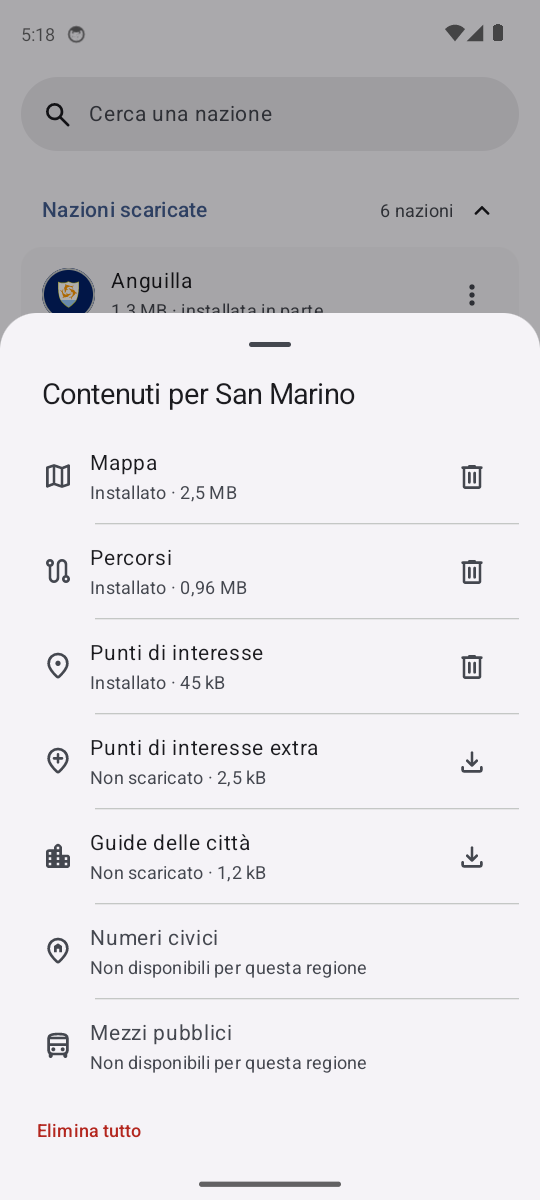
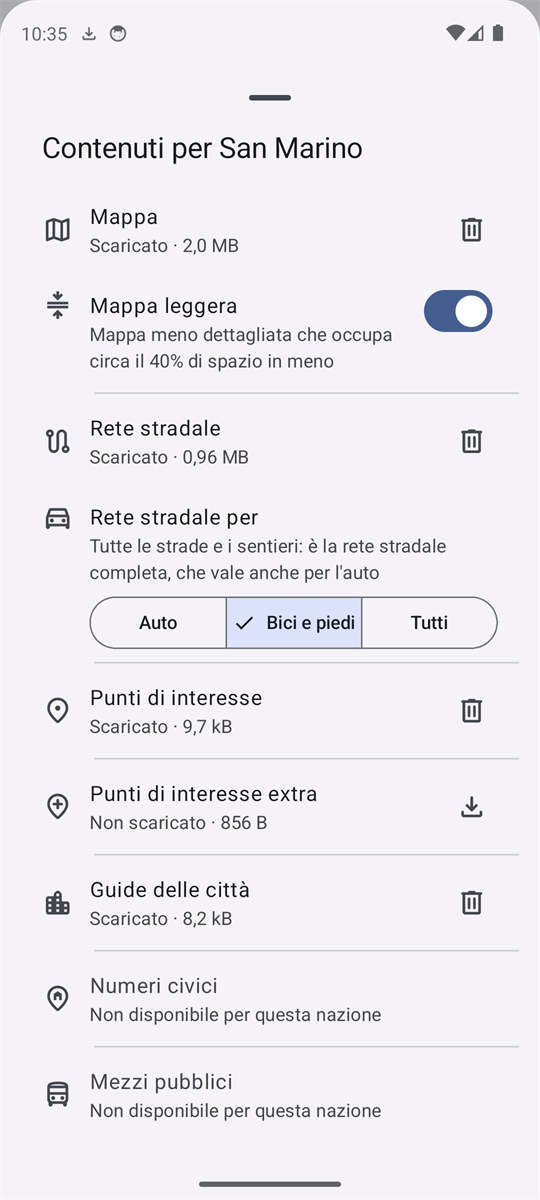
fix(app): testi dell'interfaccia con un termine solo per concetto
- Nazioni e contenuti "scaricati" invece di "installati": elenco delle nazioni ("scaricata", "scaricata in
  parte"), foglio Contenuti ("Scaricato · 2,0 MB"), Spazio di archiviazione ("Nazioni scaricate").
- "Calcolo del percorso migliore" come il resto del calcolo; "rete stradale solo auto"; "Consigli di viaggio" per i
  testi dei ministeri degli esteri; "vaccini raccomandati"; canale delle notifiche "Aggiornamenti delle nazioni";
  "scheda Nazioni"; "Guida, Mappa, Navigatore e Documenti"; "ricerche recenti" nel titolo e nel testo del dialogo;
  la chiave API addebitata "sull'account personale", in forma impersonale.
- Inglese: orari dei mezzi pubblici sempre al plurale, "Couldn't" uniforme, stesso contenuto dell'italiano nei
  testi dei modi di spostarsi e delle liste di parole.
- Chiavi vacc_*_transit rinominate vacc_*_stopover, come lo scalo nel codice.
- Screenshot regions.png e packages.png del README rifatti: mostravano ancora "Installato", "Percorsi" e "Mostra
  la mappa del mondo".

Verifiche: CI completa verde; schermate sull'emulatore (Pixel 8, italiano) di Nazioni, Contenuti, Spazio di
archiviazione e Altro.

diff --git a/feature/guide/src/main/kotlin/com/pockettravel/feature/guide/VaccinationScreen.kt b/feature/guide/src/main/kotlin/com/pockettravel/feature/guide/VaccinationScreen.kt
@@ -338,7 +338,7 @@ private fun RouteCard(state: VaccinationUiState, actions: VaccinationActions, on
             ) {
                 Icon(AppIcons.Add, contentDescription = null)
                 Spacer(modifier = Modifier.width(Spacing.s))
-                Text(stringResource(R.string.vacc_add_transit))
+                Text(stringResource(R.string.vacc_add_stopover))
             }
             HorizontalDivider(modifier = Modifier.padding(vertical = Spacing.s))
 
@@ -455,7 +455,7 @@ private fun StopoverEditor(
                 CountryRow(label = stringResource(R.string.vacc_stopover_country), country = stopover.country, onClick = onPickCountry)
             }
             IconButton(onClick = onRemove) {
-                Icon(AppIcons.Delete, contentDescription = stringResource(R.string.vacc_remove_transit))
+                Icon(AppIcons.Delete, contentDescription = stringResource(R.string.vacc_remove_stopover))
             }
         }
         FlowRow(
@@ -806,8 +806,8 @@ private fun VaccinationItem.reasonText(): String? {
     return when (reason) {
         VaccinationReason.YF_ENTRY_ALL -> stringResource(R.string.vacc_reason_yf_all)
         VaccinationReason.YF_ENTRY_FROM_RISK, VaccinationReason.YF_ENTRY_FROM_LIST -> when {
-            hours != null -> stringResource(R.string.vacc_reason_transit, hours, place)
-            stopover -> stringResource(R.string.vacc_reason_transit_unknown, place)
+            hours != null -> stringResource(R.string.vacc_reason_stopover, hours, place)
+            stopover -> stringResource(R.string.vacc_reason_stopover_unknown, place)
             reason == VaccinationReason.YF_ENTRY_FROM_RISK -> stringResource(R.string.vacc_reason_from_risk, place)
             else -> stringResource(R.string.vacc_reason_from_list, place)
         }

diff --git a/feature/guide/src/androidTest/kotlin/com/pockettravel/feature/guide/VaccinationContentDeviceTest.kt b/feature/guide/src/androidTest/kotlin/com/pockettravel/feature/guide/VaccinationContentDeviceTest.kt
@@ -123,7 +123,7 @@ class VaccinationContentDeviceTest {
         var added = 0
         show(baseState, actions(addStopover = { added++ }))
 
-        compose.onNodeWithText(string(R.string.vacc_add_transit)).performClick()
+        compose.onNodeWithText(string(R.string.vacc_add_stopover)).performClick()
 
         assertEquals(1, added)
     }

diff --git a/CHANGELOG.md b/CHANGELOG.md
@@ -27,6 +27,7 @@ Oltre alle categorie di Keep a Changelog, la sezione "Cambiamenti incompatibili"
 - Punti di interesse salvati in forma compatta (coordinate come numeri interi, categorie e nazioni come codici): nel database dell'app occupano circa la metà, per l'Italia da 180 a 94 MB, e le categorie presenti e i conteggi dei trasporti si leggono in meno di un millesimo di secondo invece di 65–75. All'aggiornamento dell'app i punti di interesse già scaricati si convertono senza riscaricarli (qualche secondo per una nazione grande); lo spazio necessario è circa il doppio del peso finale dei punti di interesse. Se manca, la nazione risulta da aggiornare in elenco e in Aggiornamenti con i punti di interesse da riscaricare, e arriva una notifica che apre Aggiornamenti; i punti già scaricati si tolgono. Lo spazio liberato torna al dispositivo al primo avvio.
 - Spazio di archiviazione mostra quanto occupano davvero i punti di interesse nel database dell'app (per l'Italia circa 94 MB), non il peso del file scaricato (54 MB). Vale anche per le nazioni già installate: la migrazione ricalcola il peso dei loro punti di interesse.
 - Le guide si aggiornano da sole anche su rete mobile quando il file compresso delle guide pesa meno di 5 MB (oggi circa 2,6 MB in italiano e 4,5 MB in inglese); sopra, come prima, solo su Wi-Fi. In Spazio di archiviazione la riga delle guide dice "aggiornamento automatico".
+- Testi dell'interfaccia con un termine solo per ogni concetto: nazioni e contenuti "scaricati" invece di "installati" (elenco delle nazioni, foglio Contenuti, Spazio di archiviazione), "Calcolo del percorso migliore", "Consigli di viaggio" per i testi del ministero degli esteri e del governo britannico, "vaccini raccomandati", "rete stradale solo auto", "Aggiornamenti delle nazioni" come nome delle notifiche, "scheda Nazioni". In inglese gli orari dei mezzi pubblici sono sempre al plurale.
 
 ### Corretto
 - I punti di interesse di una nazione si tagliano sul suo confine di OpenStreetMap: prima comprendevano anche quelli dei paesi vicini dentro il riquadro della regione (metà di quelli di San Marino erano in Italia, quasi metà di quelli dell'Ungheria in Austria e Slovacchia, due terzi di quelli dell'Oman negli Emirati). I territori (Riunione, Porto Rico, Hong Kong) si tagliano sul proprio confine; resta il riquadro solo dove OpenStreetMap non ne ha uno con il codice del territorio (Canarie, Bonaire, Sint Eustatius). Gli stati degli Stati Uniti e le province e regioni di Canada, Cina e Francia si tagliano sul proprio confine: il riquadro di uno stato comprende parti di quelli vicini (tre quarti dei punti della Virginia Occidentale), che chi scaricava due regioni vicine vedeva due volte. Le regioni della Russia europea, che non sono confini in OpenStreetMap, si tagliano sul confine della nazione. Arrivano con il prossimo aggiornamento dei punti di interesse.
